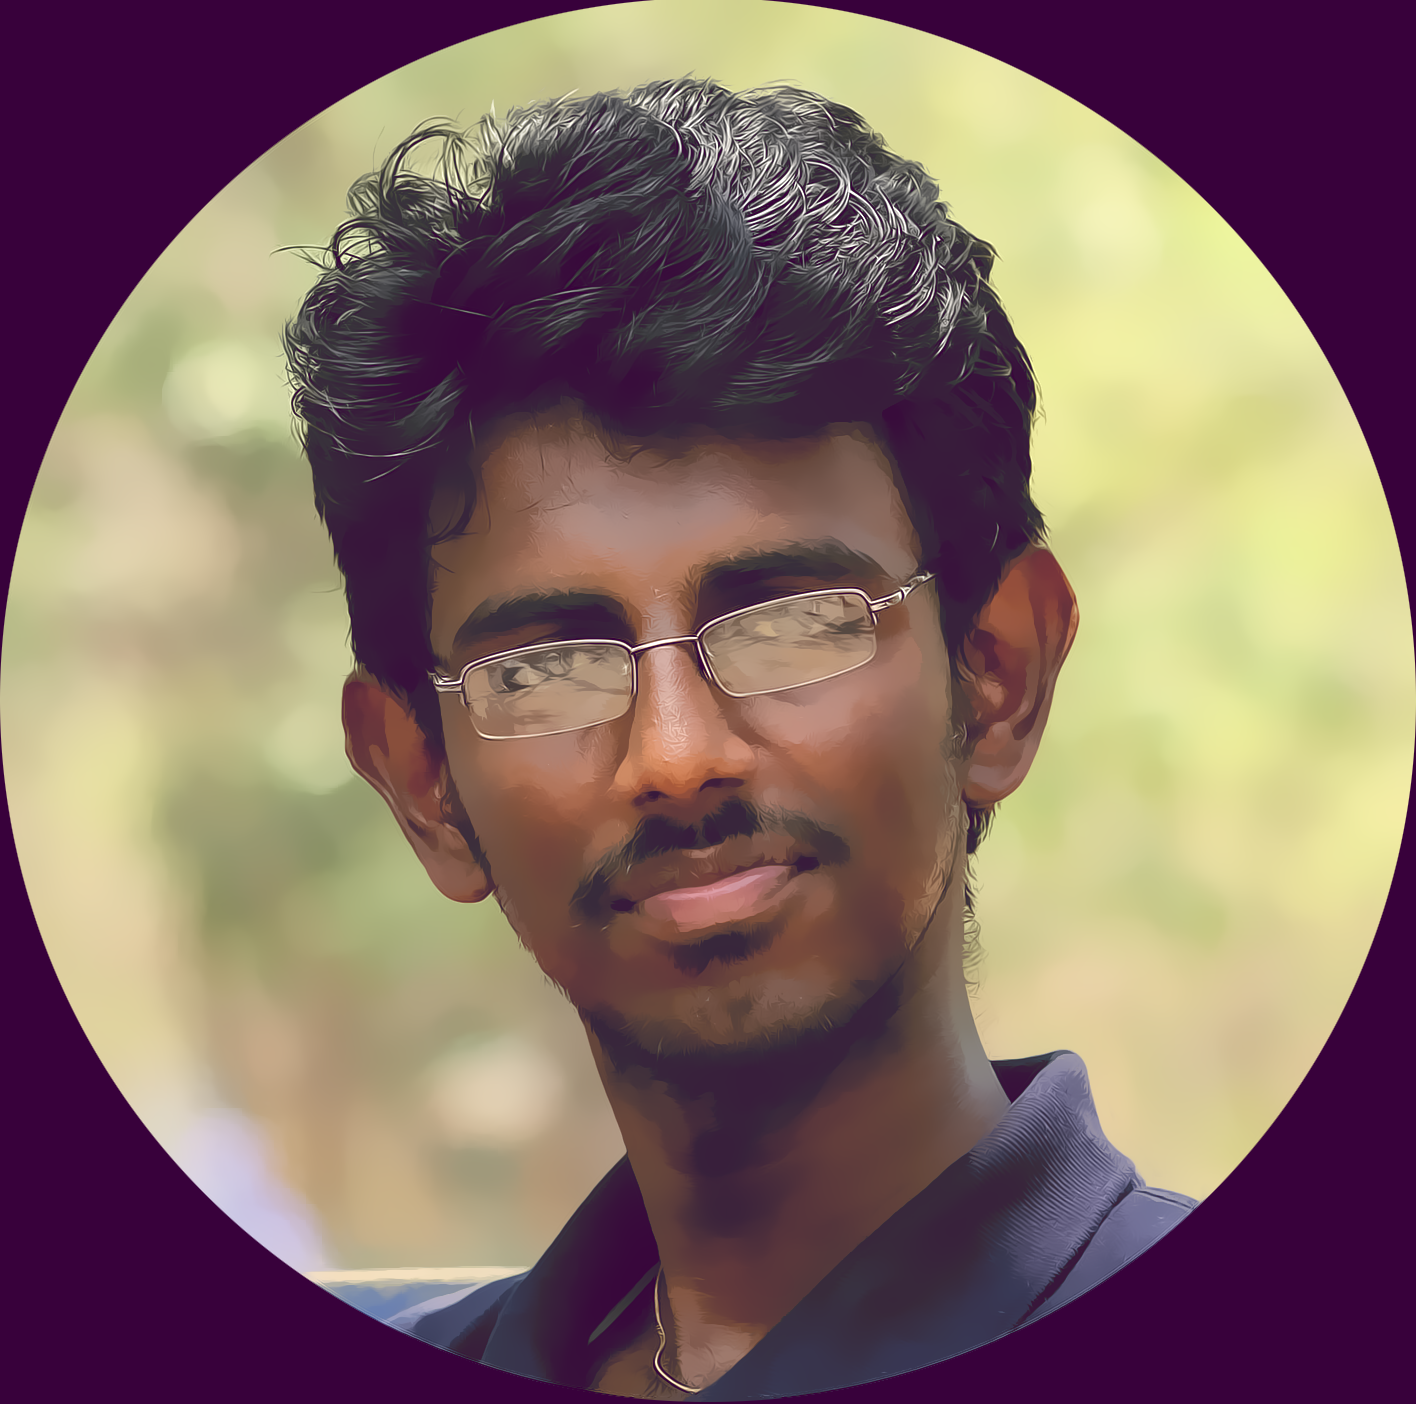
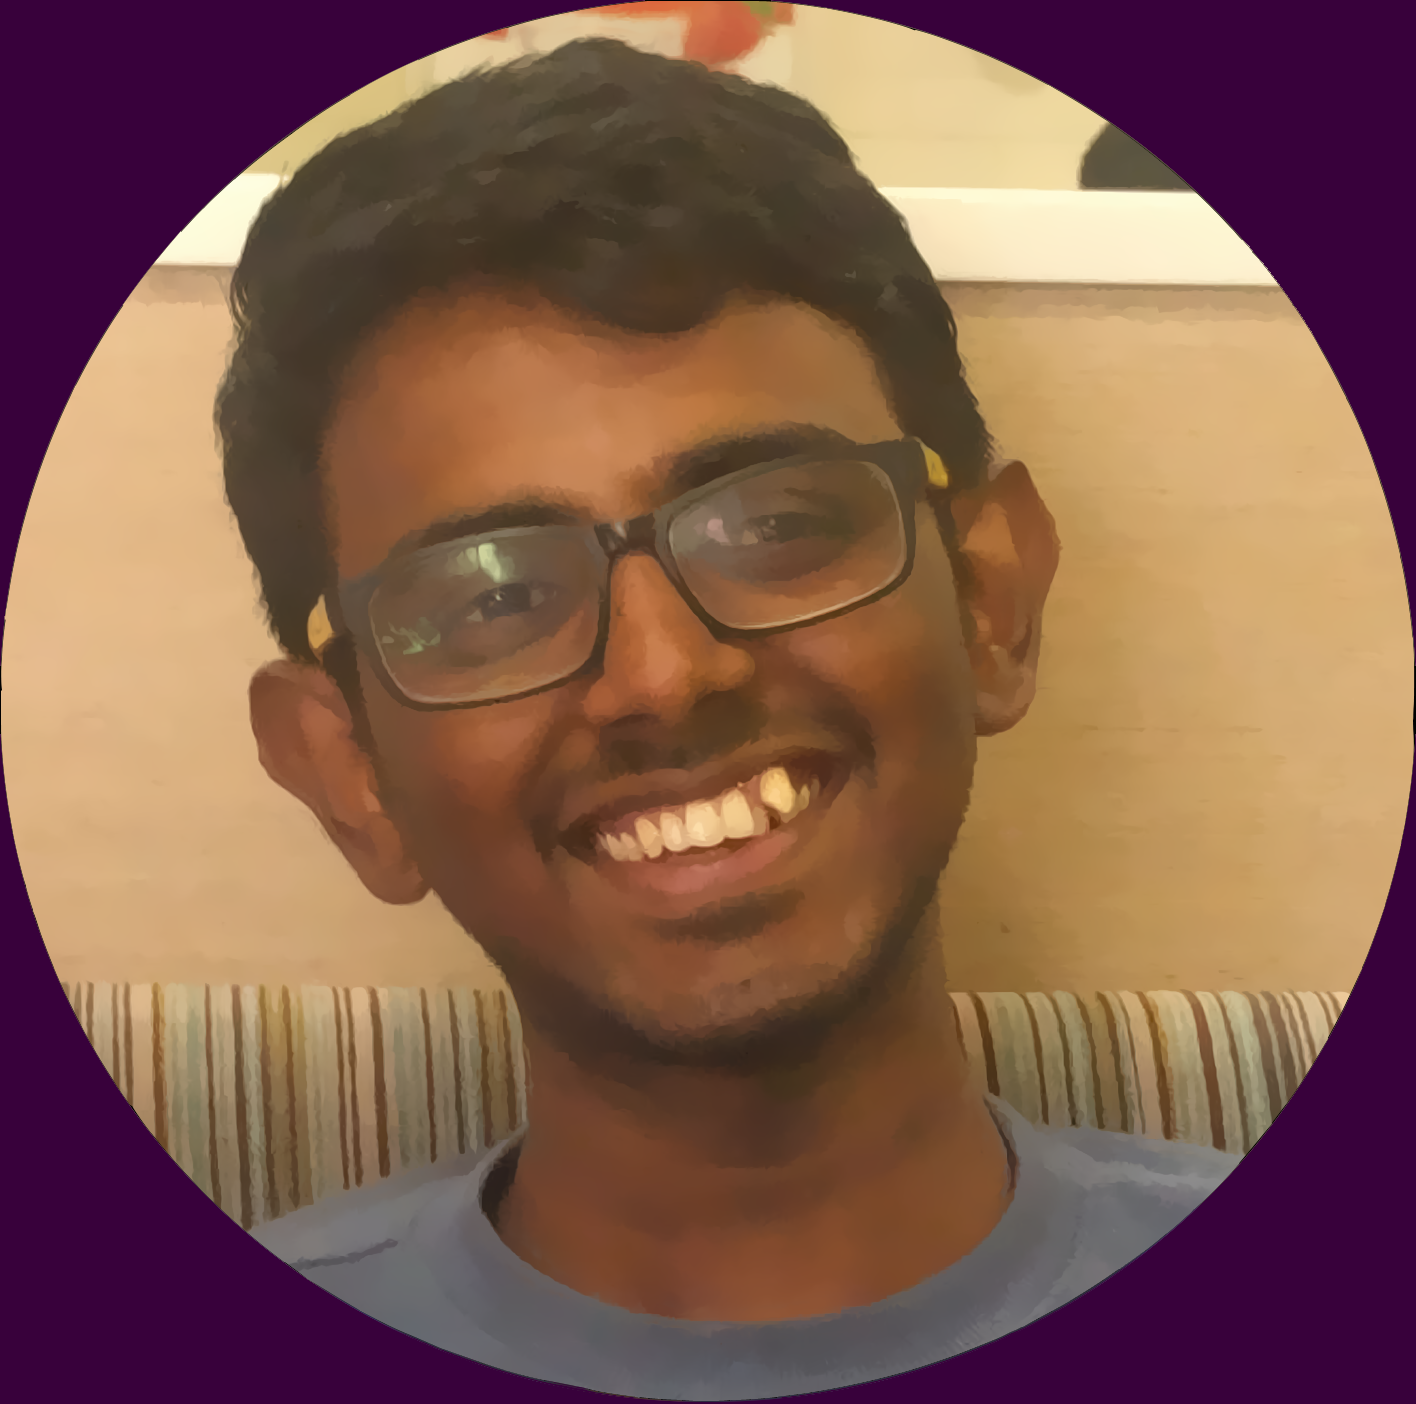
prof pic, desc, tagline - changed

diff --git a/index.html b/index.html
@@ -28,7 +28,7 @@
          <!-- Page Content -->
          <div class="container">
             <h1 id="name-me">SUGANDAN GOPALAKRISHNAN</h1>
-            <h1 id="call" class="tagline">A 'wannabe' FRONT END DEVELOPER</h1>
+            <h1 id="call" class="tagline">In God we trust. All others must bring DATA #copied</h1>
       </section>
       <img src="img/me.png" class="display-pic"/>
       <section class="indent">
@@ -44,11 +44,11 @@
       </div> <!-- cd-modal-action -->
       <div class="cd-modal">
       <div class="cd-modal-content">
-      <center><img src="img/ynwa2.png" style="width: 35vw; height: 12vw"/>
-      </center>
-      <div class="about-me"> HOWDY!</div>
+      <!-- <center><img src="img/ynwa2.png" style="width: 35vw; height: 12vw"/>
+      </center> -->
+      <div class="about-me"> Hi there!</div>
       <div class="myself">
-      <p>Yay! And finally.. I'm here.. <span class="glyphicon glyphicon-flag" aria-hidden="true" ></span></p>
+      <!--<p>Yay! And finally.. I'm here.. <span class="glyphicon glyphicon-flag" aria-hidden="true" ></span></p>
       <p>  I mean, the last part <span class="glyphicon glyphicon-glass" aria-hidden="true" ></span> of the design after hours and hours of code <span class="glyphicon glyphicon-console" aria-hidden="true" ></span>
       <br/>So quickly ... </p>
       <p> You can call me Sugan <span class="glyphicon glyphicon-user" aria-hidden="true" ></span> - a <span class="glyphicon glyphicon-hand-right" aria-hidden="true" ></span>  front end developer/designer  <span class="glyphicon glyphicon-hand-left" aria-hidden="true" ></span> who is passionate on my work <span class="glyphicon glyphicon-floppy-saved" aria-hidden="true" ></span>
@@ -59,7 +59,12 @@
       <span class="glyphicon glyphicon-ok" aria-hidden="true" ></span>
       </p><p>Not being a fanboy of professional content writing, let me keep it this way, short 'n' crisp <span class="glyphicon glyphicon-flash" aria-hidden="true" ></span> . I believe humor makes us honest and open.
       </p><p> <span class="glyphicon glyphicon-eye-open" aria-hidden="true" ></span> Looking forward to get involved in competitive <span class="glyphicon glyphicon-cloud" aria-hidden="true" ></span> , innovative and challlenging projects. If you're a person with ideas, I'm the person to get in touch with. CYA soon!
-      </p><p>PS: Watch out for this space - *MANY MORE EDITS <span class="glyphicon glyphicon-pencil" aria-hidden="true" ></span> TO FOLLOW IN THE COMING DAYS*
+      </p><p>PS: Watch out for this space - *MANY MORE EDITS <span class="glyphicon glyphicon-pencil" aria-hidden="true" ></span> TO FOLLOW IN THE COMING DAYS* -->
+      <p>I realized that the power of data is in what they are used to reveal, in my four years of corporate experience in data warehousing, Oracle, and ETL. This astounding faith in data led me to pursue masters, courses including Big Data and Business Analytics.
+      </br></br>I'm now actively seeking full-time opportunities in Data Analytics and Engineering which has a deep learning curve, where I can exercise my skillsets to constantly upgrade.
+      </br><br>In the past, I have had experiences leading production teams, negotiating with clients, implementing SDLC and performing crucial time-sensitive production fixes. I had also been the point of contact of client relations. Of late, I have worked on analytics projects in groups, building predictive and regression models.
+      <br><br> Best,
+      <br> Sugandan Gopalakrishnan </p>
       </div>
       </div><!--end container-->
       </div>
